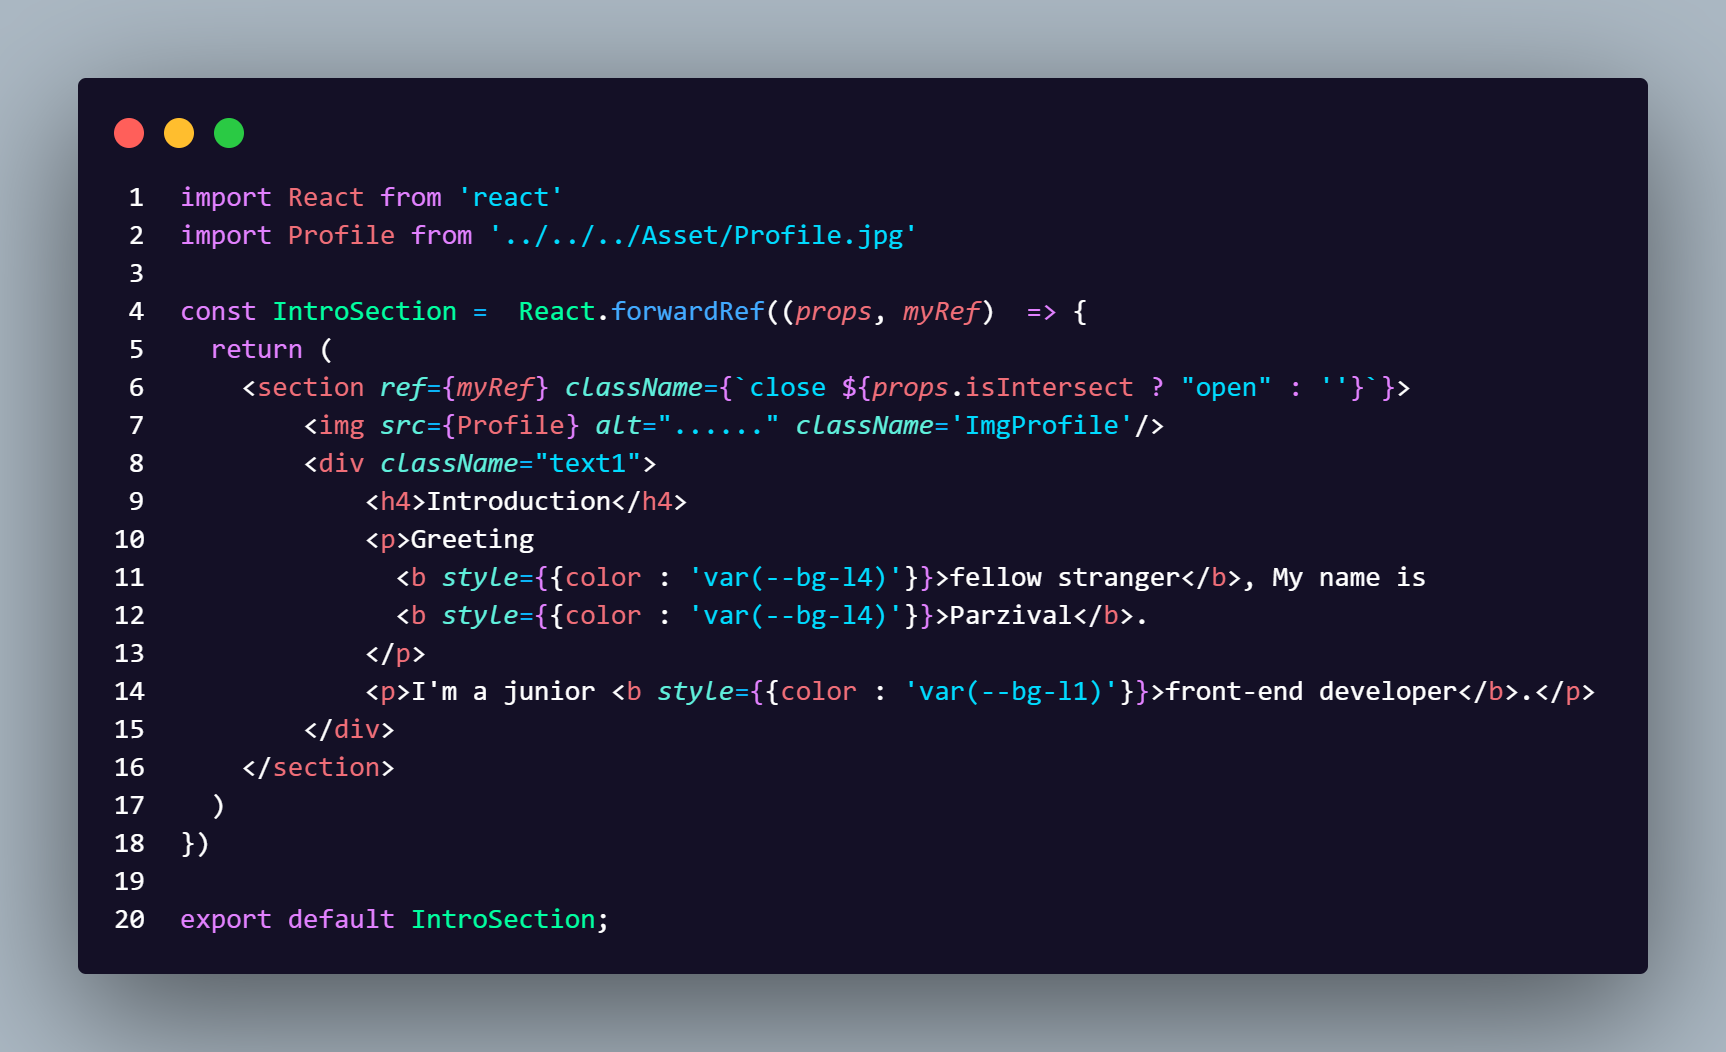
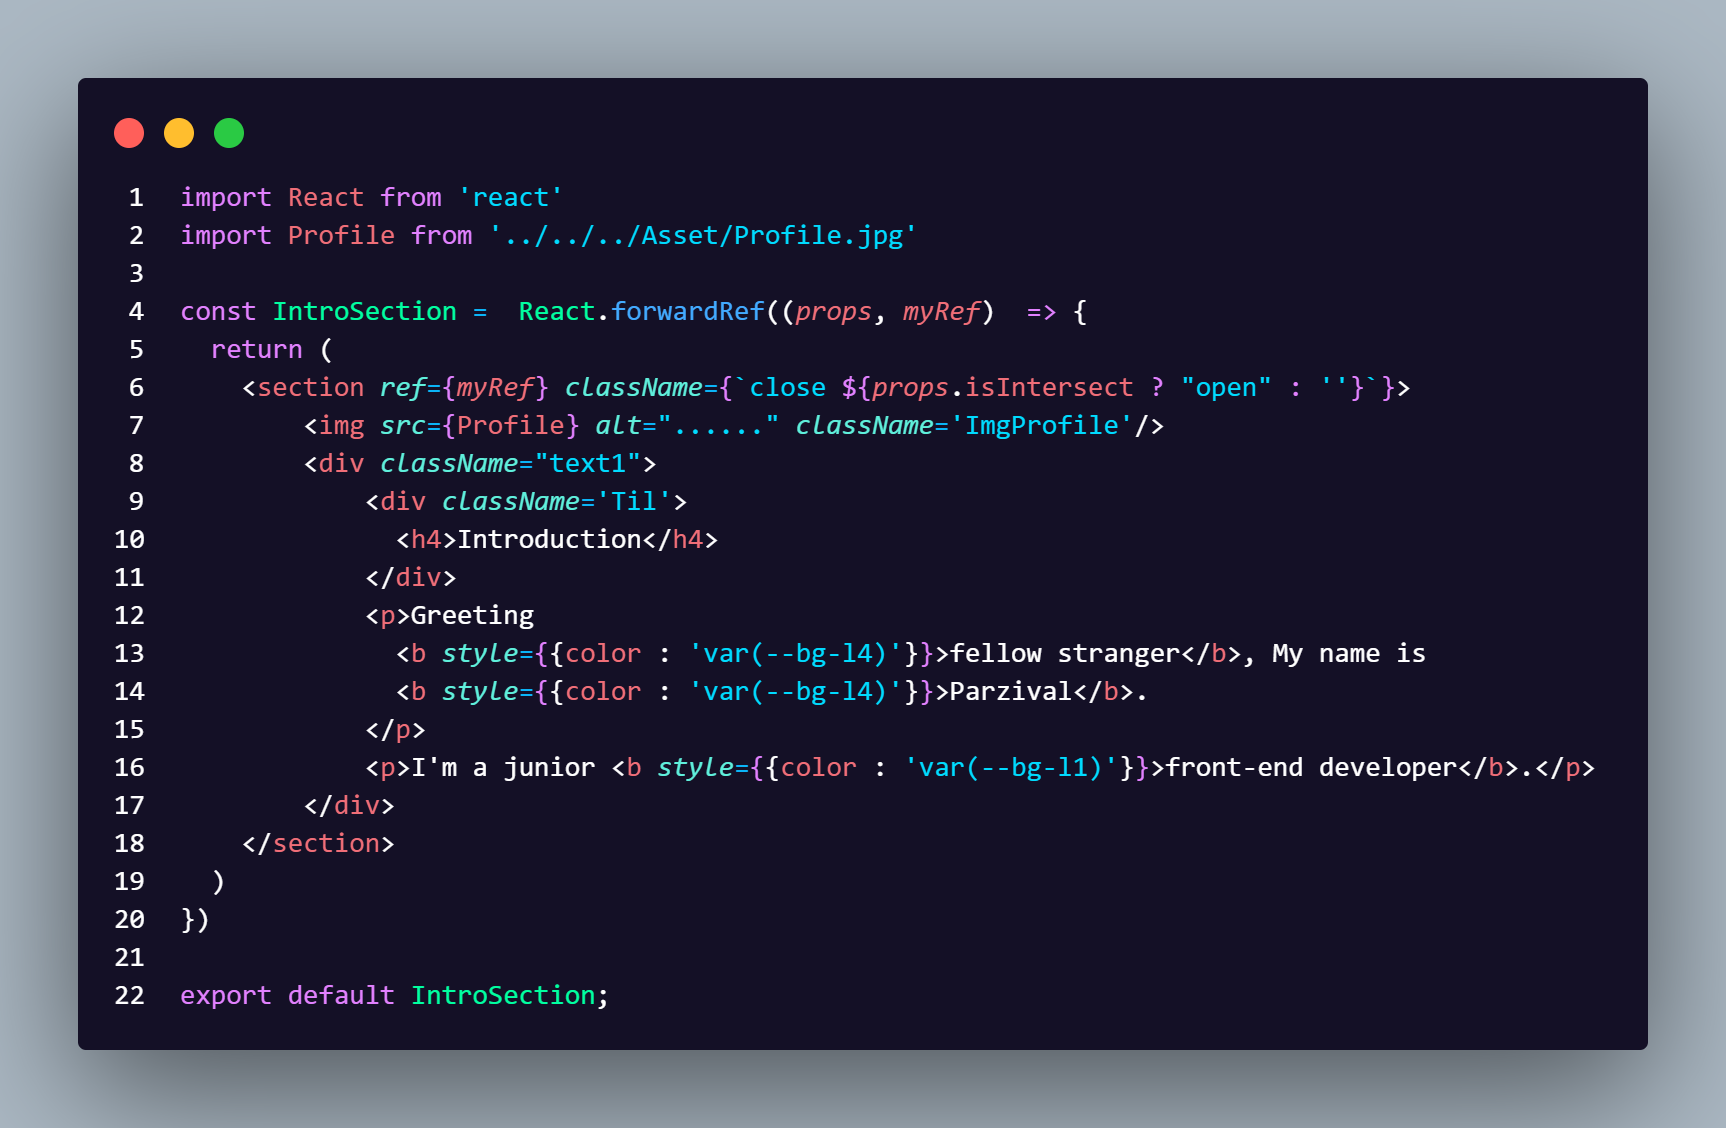
Age-Of-DuskBorn

diff --git a/src/Component/MainContent/MainContent.scss b/src/Component/MainContent/MainContent.scss
@@ -57,12 +57,50 @@
                 margin-top: 15vw;
                 display: flex;
                 flex-flow: column nowrap;
-                h4 {
-                    text-align: center;
+                .Til2 {
+                    width: 100%;
+                    height: 5vw;
+                    position: relative;
+                    z-index: 1;
+                    .animateGradientColorBG {
+                        background: linear-gradient(90deg, rgba(2,0,36,1) 0%, rgba(9,9,121,1) 13%, rgba(8,32,137,1) 22%, rgba(6,87,173,1) 36%, rgba(4,138,207,1) 49%, rgba(0,212,255,1) 66%, rgba(150,229,255,1) 93%); 
+                        background-clip: text;
+                        width: 100%;
+                        height: 100%;
+                        h4 {
+                            // position: absolute;
+                            // top: 0;
+                            // left: 0;
+                            color: transparent;
+                        }
+                    }
+                    
                 }
-                .Code {
+                .perspective {
+                    position: relative;
                     width: 70%;
-                    object-fit: cover;
+                    height: 40vw;
+                    perspective: 90rem;
+                    display: grid;
+                    place-items: center;
+                    .Code {
+                        width: 70%;
+                        margin: 0 auto;
+                        object-fit: cover;
+                        position: absolute;
+                        &:first-child {
+                            transform: rotateY(20deg) translateZ(-10vw) translateX(-15vw);
+                            z-index: 1;
+                        }
+                        &:nth-child(2) {
+                            transform: rotateY(20deg) translateZ(0vw) translateX(2vw);
+                            z-index: 2;
+                        }
+                        &:nth-child(3) {
+                            transform: rotateY(20deg) translateZ(10vw) translateX(20vw);
+                            z-index:3;
+                        }
+                    }
                 }
             }
             
@@ -71,6 +109,7 @@
 }
 @media (max-width: 767.98px) {
     .MainContent {
+        min-height: 100vh;
         .close {
             width: 90%;
             margin: 0 auto 8rem auto;
@@ -97,12 +136,32 @@
                     margin: 15vw auto 0 auto;
                     display: flex;
                     flex-flow: column nowrap;
+                    min-height: 50vh;
+                    justify-content: center;
+                    align-items: center;
                     h4 {
+                        margin: 0;
                         text-align: center;
                     }
-                    .Code {
-                        width: 70%;
-                        object-fit: cover;
+                    .perspective {
+                        height: 70vw;
+                        .Code {
+                            top: 4vw;
+                            width: 100%;
+                            position: absolute;
+                            &:first-child {
+                                transform: rotateX(20deg) translateZ(-10rem) translateY(-20vw);
+                                z-index: 1;
+                            }
+                            &:nth-child(2) {
+                                transform: rotateX(20deg) translateZ(-5rem) translateY(0vw);
+                                z-index: 2;
+                            }
+                            &:nth-child(3) {
+                                transform: rotateX(20deg) translateZ(0rem) translateY(20vw);
+                                z-index: 3;
+                            }
+                        }
                     }
                 }
             }
@@ -132,6 +191,12 @@
                     p {
                         font-size: 1.2rem;
                         text-indent: 1rem;
+                    }
+                }
+                &:nth-child(2) {
+                    .perspective {
+                        width: 95%;
+                        height: 80vw;
                     }
                 }
             }

diff --git a/src/Component/MainContent/MainContent.css b/src/Component/MainContent/MainContent.css
@@ -63,16 +63,54 @@
   display: flex;
   flex-flow: column nowrap;
 }
-.MainContent .close.open:nth-child(2) h4 {
-  text-align: center;
+.MainContent .close.open:nth-child(2) .Til2 {
+  width: 100%;
+  height: 5vw;
+  position: relative;
+  z-index: 1;
 }
-.MainContent .close.open:nth-child(2) .Code {
+.MainContent .close.open:nth-child(2) .Til2 .animateGradientColorBG {
+  background: linear-gradient(90deg, rgb(2, 0, 36) 0%, rgb(9, 9, 121) 13%, rgb(8, 32, 137) 22%, rgb(6, 87, 173) 36%, rgb(4, 138, 207) 49%, rgb(0, 212, 255) 66%, rgb(150, 229, 255) 93%);
+  -webkit-background-clip: text;
+          background-clip: text;
+  width: 100%;
+  height: 100%;
+}
+.MainContent .close.open:nth-child(2) .Til2 .animateGradientColorBG h4 {
+  color: transparent;
+}
+.MainContent .close.open:nth-child(2) .perspective {
+  position: relative;
   width: 70%;
+  height: 40vw;
+  perspective: 90rem;
+  display: grid;
+  place-items: center;
+}
+.MainContent .close.open:nth-child(2) .perspective .Code {
+  width: 70%;
+  margin: 0 auto;
   -o-object-fit: cover;
      object-fit: cover;
+  position: absolute;
+}
+.MainContent .close.open:nth-child(2) .perspective .Code:first-child {
+  transform: rotateY(20deg) translateZ(-10vw) translateX(-15vw);
+  z-index: 1;
+}
+.MainContent .close.open:nth-child(2) .perspective .Code:nth-child(2) {
+  transform: rotateY(20deg) translateZ(0vw) translateX(2vw);
+  z-index: 2;
+}
+.MainContent .close.open:nth-child(2) .perspective .Code:nth-child(3) {
+  transform: rotateY(20deg) translateZ(10vw) translateX(20vw);
+  z-index: 3;
 }
 
 @media (max-width: 767.98px) {
+  .MainContent {
+    min-height: 100vh;
+  }
   .MainContent .close {
     width: 90%;
     margin: 0 auto 8rem auto;
@@ -97,14 +135,33 @@
     margin: 15vw auto 0 auto;
     display: flex;
     flex-flow: column nowrap;
+    min-height: 50vh;
+    justify-content: center;
+    align-items: center;
   }
   .MainContent .close.open:nth-child(2) h4 {
+    margin: 0;
     text-align: center;
   }
-  .MainContent .close.open:nth-child(2) .Code {
-    width: 70%;
-    -o-object-fit: cover;
-       object-fit: cover;
+  .MainContent .close.open:nth-child(2) .perspective {
+    height: 70vw;
+  }
+  .MainContent .close.open:nth-child(2) .perspective .Code {
+    top: 4vw;
+    width: 100%;
+    position: absolute;
+  }
+  .MainContent .close.open:nth-child(2) .perspective .Code:first-child {
+    transform: rotateX(20deg) translateZ(-10rem) translateY(-20vw);
+    z-index: 1;
+  }
+  .MainContent .close.open:nth-child(2) .perspective .Code:nth-child(2) {
+    transform: rotateX(20deg) translateZ(-5rem) translateY(0vw);
+    z-index: 2;
+  }
+  .MainContent .close.open:nth-child(2) .perspective .Code:nth-child(3) {
+    transform: rotateX(20deg) translateZ(0rem) translateY(20vw);
+    z-index: 3;
   }
 }
 @media (max-width: 575.98px) {
@@ -129,5 +186,9 @@
   .MainContent .close.open .text1 p {
     font-size: 1.2rem;
     text-indent: 1rem;
+  }
+  .MainContent .close.open:nth-child(2) .perspective {
+    width: 95%;
+    height: 80vw;
   }
 }/*# sourceMappingURL=MainContent.css.map */

diff --git a/src/Component/Parallax/Parallax.jsx b/src/Component/Parallax/Parallax.jsx
@@ -16,15 +16,9 @@ function Parallax() {
     return (
         <div
             className="Parallax"
-            style={{ height: `calc(130vh - (${position * 0.44444}px))` }}
+            style={{ height: `calc(130vh - (${position * 0.4444}px))` }}
         >   
             <img src={PH} alt="P." className="img" style={{ "--i--n": "1" }} />
-            <LazyLoadImage
-                className="img"
-                src={Riff1}
-                alt="P."
-                style={{ "--i--n": "3"}}
-            />
             <LazyLoadImage
                 className="imgg"
                 src={Mobile}
@@ -32,6 +26,12 @@ function Parallax() {
                     "--i--n": "2",
                     // transform: `translate3d(0px, ${position *0.6}px, 0px)`,
                 }}
+            />
+            <LazyLoadImage
+                className="img"
+                src={Riff1}
+                alt="P."
+                style={{ "--i--n": "3"}}
             />
             <div className="Fill" style={{ "--i--n": "4" }}></div>
         </div>

diff --git a/src/Component/MainContent/EachSection/PLanguage.jsx b/src/Component/MainContent/EachSection/PLanguage.jsx
@@ -5,10 +5,15 @@ const PLanguage =  React.forwardRef((props, myRef)  => {
   return (
     <section ref={myRef} className={`${props.isIntersect ? "close open" : 'close'}`}>
         <div className="text1">
-            <h4>My Knowledge</h4>
-            
+            <div className="Til2">
+              <div className="animateGradientColorBG"><h4>My Knowledge</h4></div>
+            </div>
         </div>
-        <img src={code} alt="Code" loading='lazy' className='Code'/>
+        <div className="perspective">
+          <img src={code} alt="Code" loading='lazy' className='Code'/>
+          <img src={code} alt="Code" loading='lazy' className='Code'/>
+          <img src={code} alt="Code" loading='lazy' className='Code'/>
+        </div>
     </section>
   )
 })

diff --git a/src/index.scss b/src/index.scss
@@ -144,6 +144,10 @@ body {
                     font-size: 1.2rem;
                 }
             }
+            .backToTop {
+                width: 3.5rem;
+                height: 3.5rem;
+            }
         }
     }
 }
@@ -228,12 +232,13 @@ body {
                 }
             }
             .backToTop {
-                width: 2rem;
-                height: 2rem;
+                width: 3rem;
+                height: 3rem;
                 bottom: 5.5vw;
+                opacity: 0.2;
                 .bi {
-                    width: 80%;
-                    height: 80%;
+                    width: 70%;
+                    height: 70%;
                     margin: auto auto;
                 }
             }

diff --git a/src/index.css b/src/index.css
@@ -146,6 +146,10 @@ body #root .backToTop .bi {
   body #root .nav .Link {
     font-size: 1.2rem;
   }
+  body #root .backToTop {
+    width: 3.5rem;
+    height: 3.5rem;
+  }
 }
 @media (max-width: 767.98px) {
   body #root {
@@ -225,13 +229,14 @@ body #root .backToTop .bi {
     color: var(--bg-d1);
   }
   body #root .backToTop {
-    width: 2rem;
-    height: 2rem;
+    width: 3rem;
+    height: 3rem;
     bottom: 5.5vw;
+    opacity: 0.2;
   }
   body #root .backToTop .bi {
-    width: 80%;
-    height: 80%;
+    width: 70%;
+    height: 70%;
     margin: auto auto;
   }
 }/*# sourceMappingURL=index.css.map */

diff --git a/src/Component/MainContent/EachSection/IntroSection.jsx b/src/Component/MainContent/EachSection/IntroSection.jsx
@@ -9,8 +9,8 @@ const IntroSection =  React.forwardRef((props, myRef)  => {
             <div className='Til'>
               <h4>Introduction</h4>
             </div>
-            <p>Greeting 
-              <b style={{color : 'var(--bg-l4)'}}>fellow stranger</b>, My name is 
+            <p>Greeting &nbsp;
+              <b style={{color : 'var(--bg-l4)'}}>fellow stranger</b>,&nbsp;My name is &nbsp;
               <b style={{color : 'var(--bg-l4)'}}>Parzival</b>.
             </p>
             <p>I'm a junior <b style={{color : 'var(--bg-l1)'}}>front-end developer</b>.</p>
